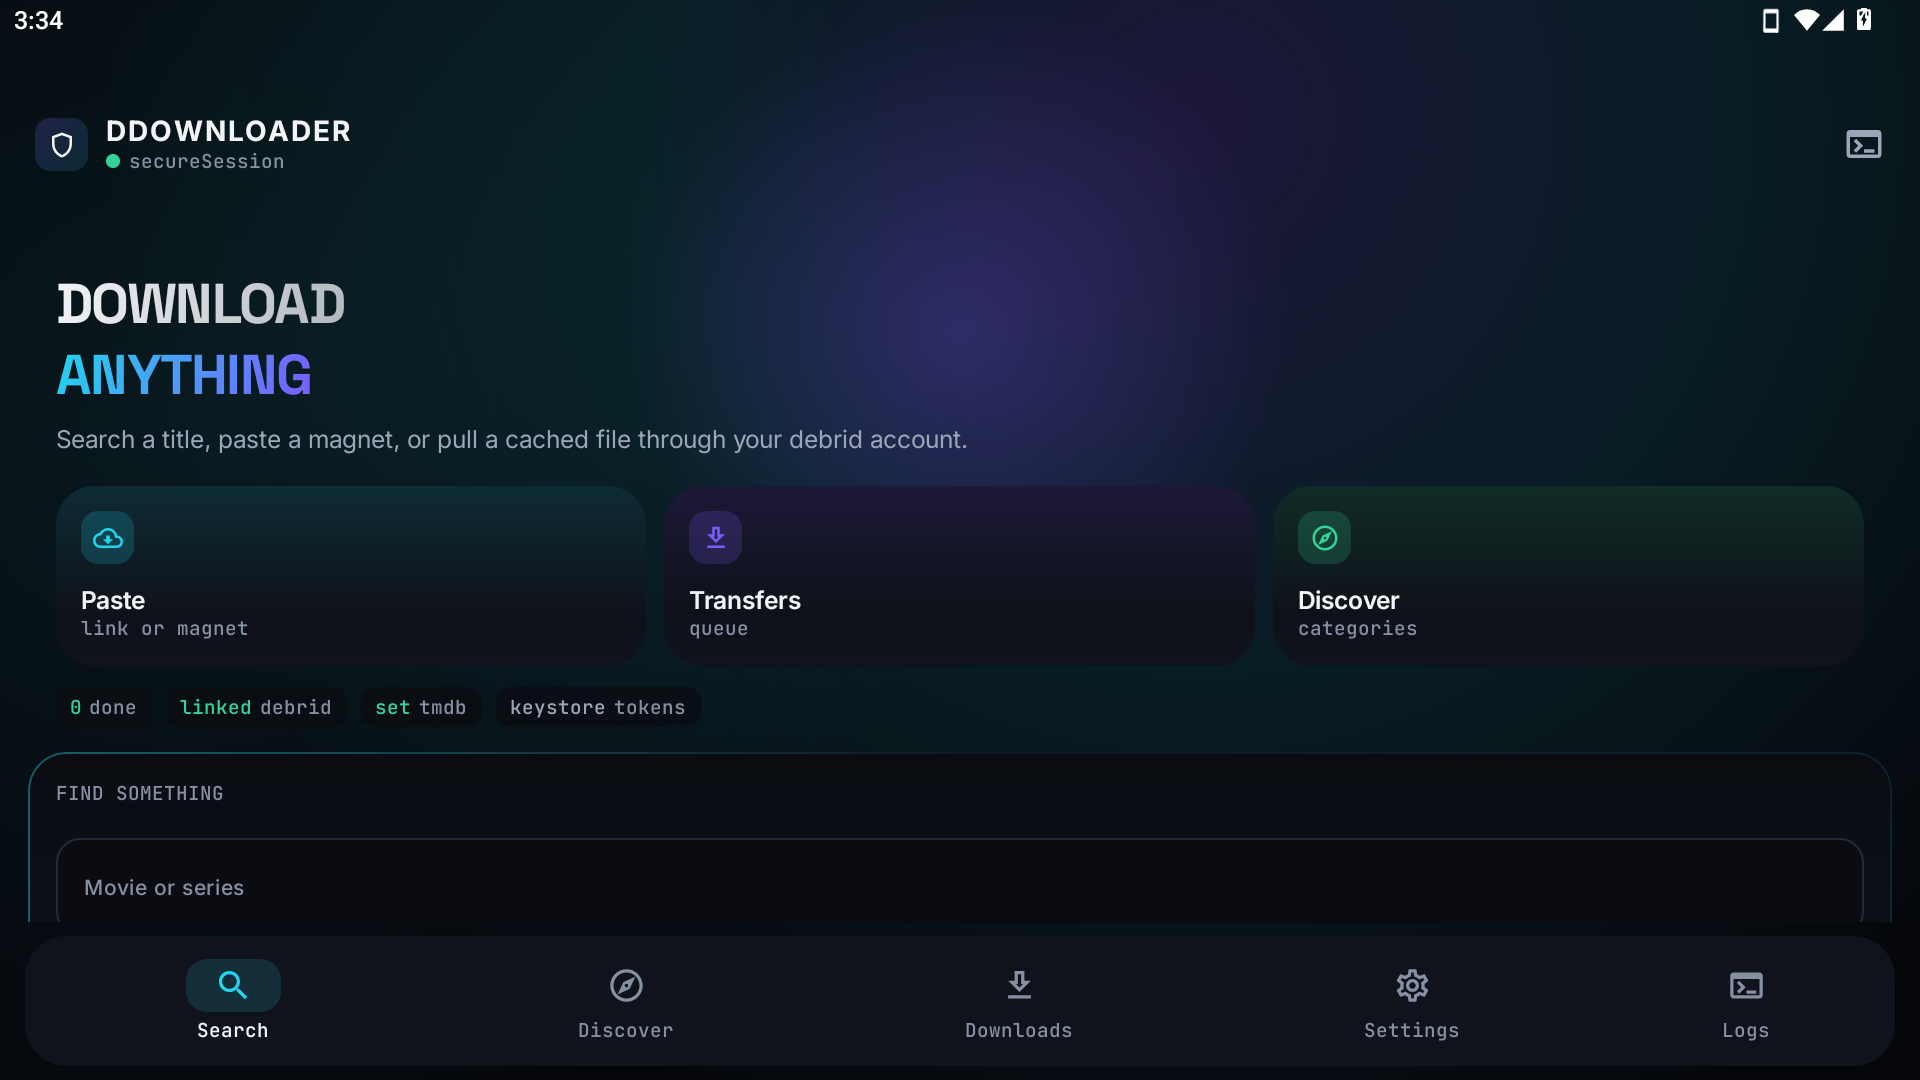
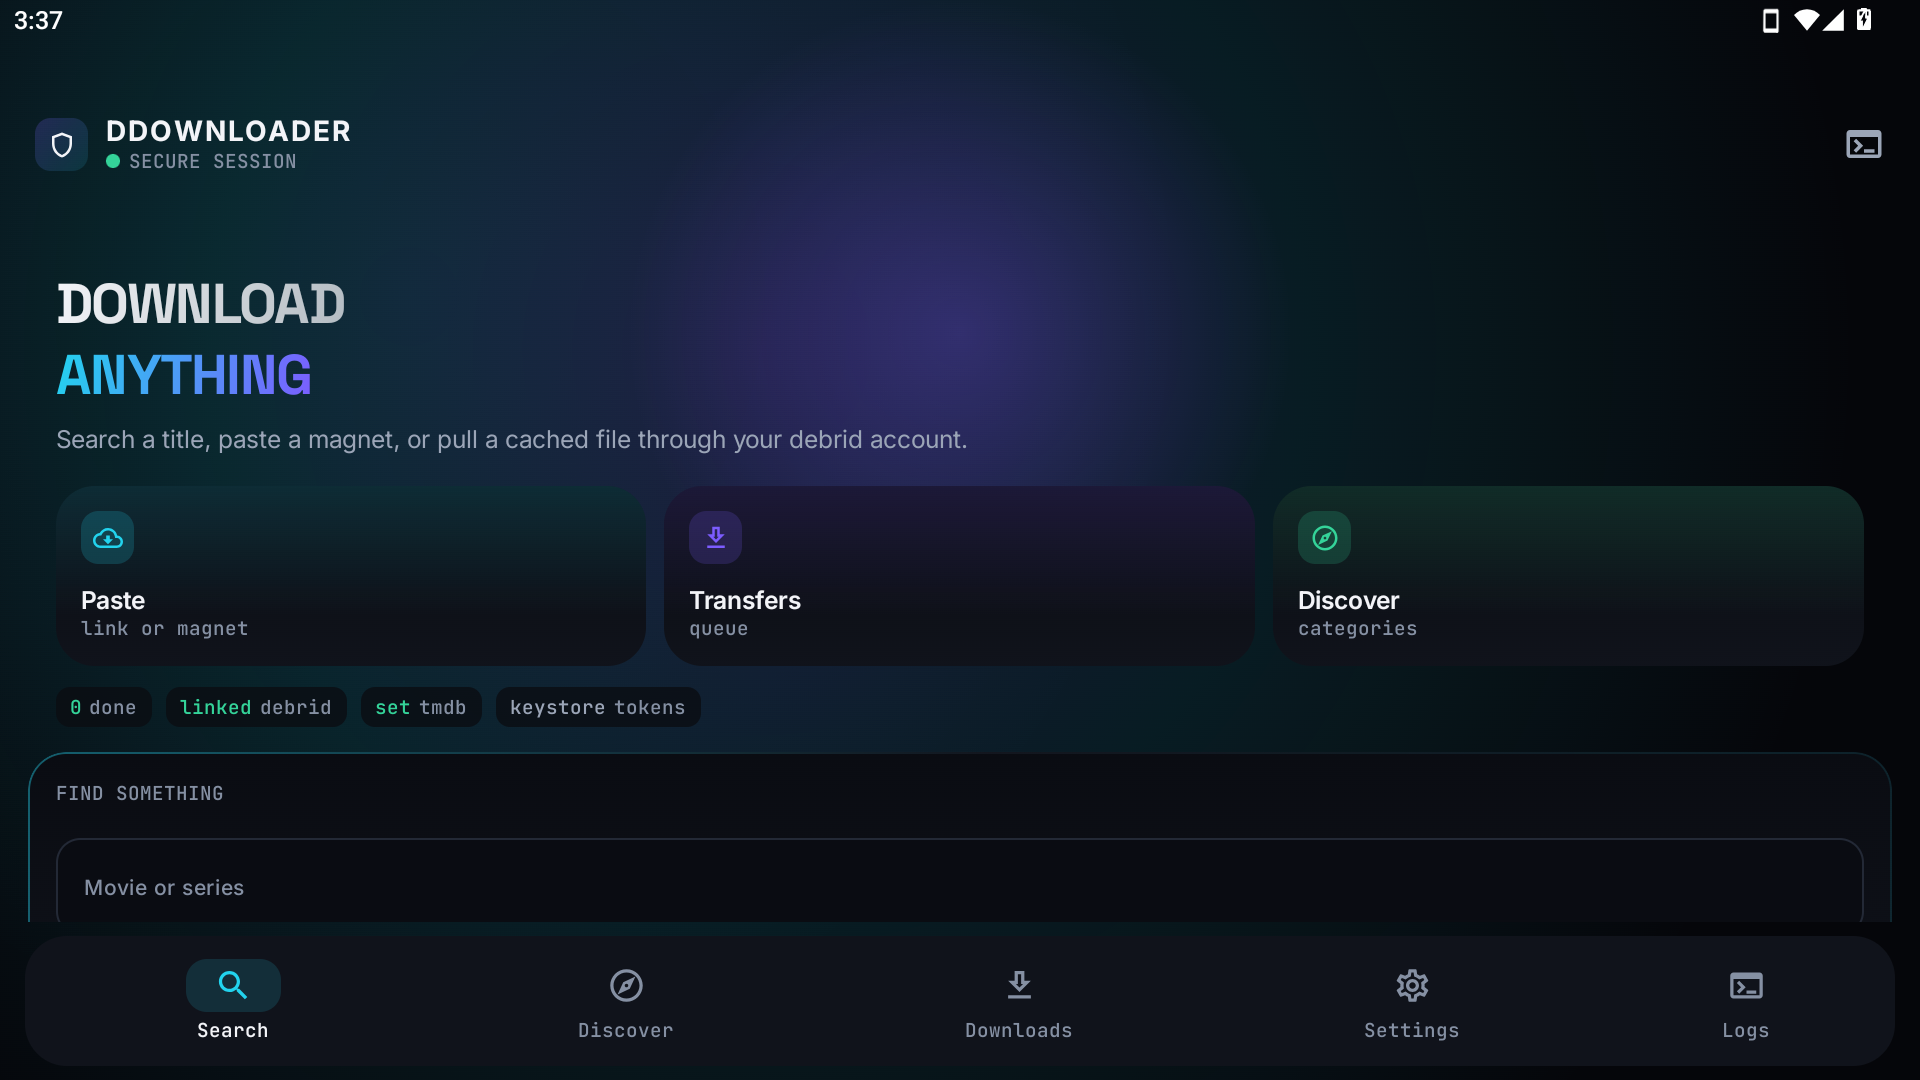
Fix the English top-bar label ("secureSession" was rendered literally)
When adding the localization keys, secureSession's English value was accidentally set to the field
name itself, so the top bar showed "secureSession" instead of "SECURE SESSION". Spanish was correct.
Found by switching the app back to English and reading the screen.

Changed region(s): [[0.1875, 0.2139, 0.3438, 0.3972], [0.0625, 0.1222, 0.1562, 0.1528]]

diff --git a/app/src/main/java/com/ddownloader/android/ui/i18n/Strings.kt b/app/src/main/java/com/ddownloader/android/ui/i18n/Strings.kt
@@ -284,7 +284,7 @@ private val EN = Strings(
     validateSave = "Validate & save",
     tmdbValid = "Key validated — saved",
     tmdbRequiredHint = "Required: this key unlocks search and Discover.",
-    secureSession = "secureSession",
+    secureSession = "SECURE SESSION",
     noDebridLinked = "NO DEBRID LINKED",
     heroLine1 = "DOWNLOAD",
     heroLine2 = "ANYTHING",

diff --git a/CHANGELOG.md b/CHANGELOG.md
@@ -7,6 +7,14 @@ GitHub Release notes by `RELEASING.md`.
 
 ## [Unreleased]
 
+## [1.3.3] - 2026-10-26
+
+### Fixed
+- The top bar rendered the literal `secureSession` instead of "SECURE SESSION": the English value
+  was accidentally set to the field name itself when the new keys were added. 1.3.2 shipped with
+  this typo; the English label is restored.
+
+
 ## [1.3.2] - 2026-10-26
 
 ### Changed — the whole UI now follows the language setting
